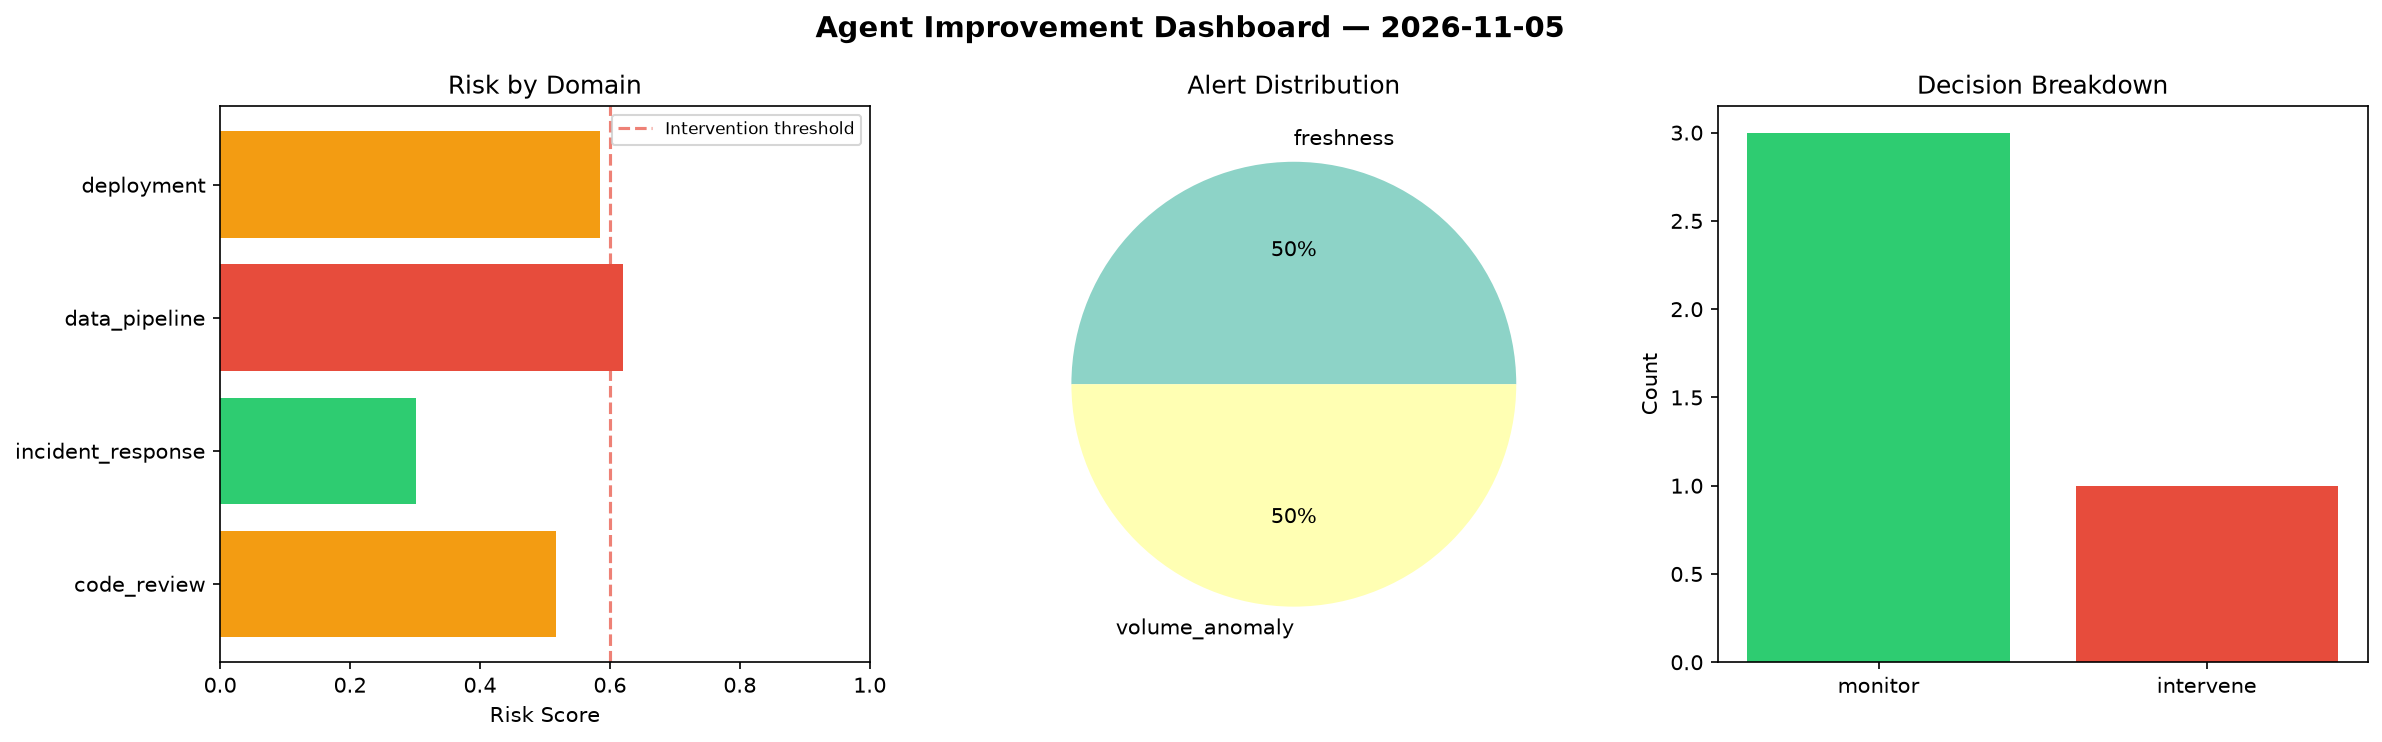
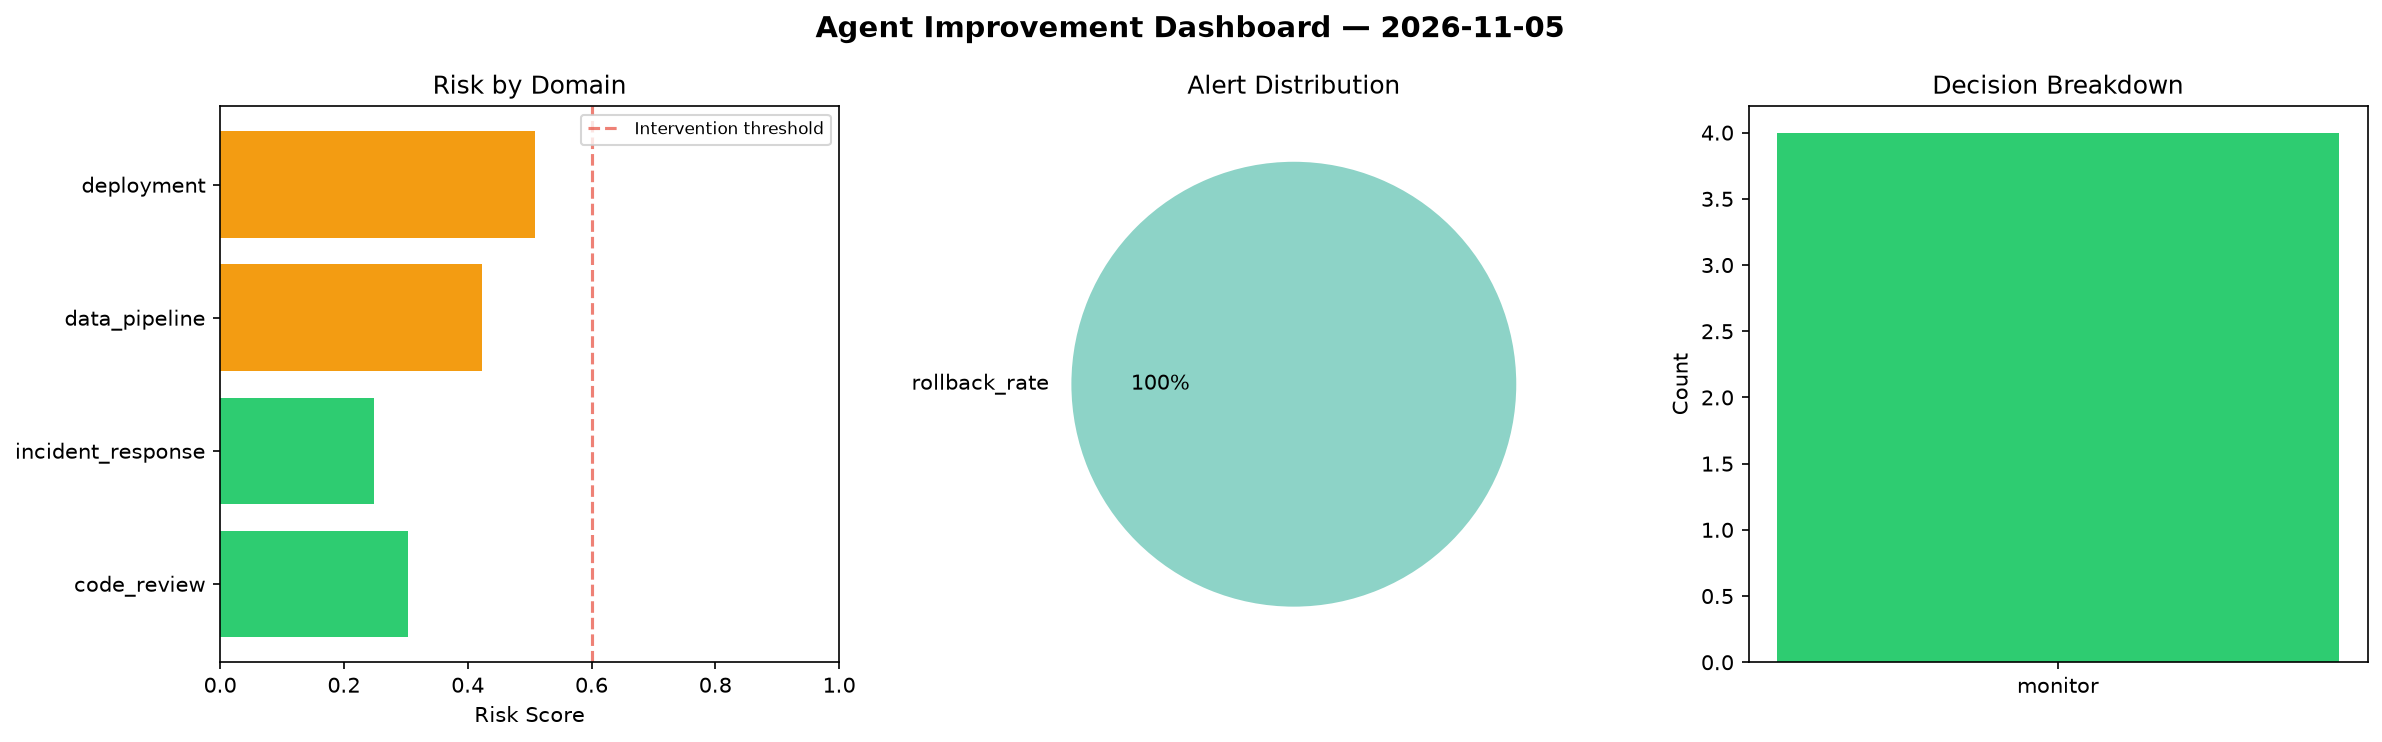
agent-improvement: daily cycle 2026-11-05T09:25

diff --git a/logs/2026-11-05.md b/logs/2026-11-05.md
@@ -1,6 +1,6 @@
 # Agent Improvement Report — 2026-11-05
 
-**Cycle ID:** `860e270b` | **Avg Risk:** 0.5059 | **Interventions:** 1/4
+**Cycle ID:** `8f5415cc` | **Avg Risk:** 0.3715 | **Interventions:** 0/4
 
 ![Dashboard](2026-11-05_dashboard.png)
 
@@ -10,18 +10,18 @@
 
 | Domain | Risk Score | Decision | Alerts |
 |--------|-----------|----------|--------|
-| code_review | 0.5173 | monitor | none |
-| incident_response | 0.3013 | monitor | none |
-| data_pipeline | 0.62 | intervene | freshness, volume_anomaly |
-| deployment | 0.585 | monitor | none |
+| code_review | 0.304 | monitor | none |
+| incident_response | 0.2491 | monitor | none |
+| data_pipeline | 0.4236 | monitor | none |
+| deployment | 0.5093 | monitor | rollback_rate |
 
 ## Delta vs Yesterday
 
 | Domain | Today | Yesterday | Change |
 |--------|-------|-----------|--------|
-| code_review | 0.5173 | 0.3962 | 📈 30.6% |
-| incident_response | 0.3013 | 0.5492 | 📉 -45.1% |
-| data_pipeline | 0.62 | 0.4948 | 📈 25.3% |
-| deployment | 0.585 | 0.3001 | 📈 94.9% |
+| code_review | 0.304 | 0.3962 | 📉 -23.3% |
+| incident_response | 0.2491 | 0.5492 | 📉 -54.6% |
+| data_pipeline | 0.4236 | 0.4948 | 📉 -14.4% |
+| deployment | 0.5093 | 0.3001 | 📈 69.7% |
 
 **Refinement:** `{'adjustment': 'tighten_thresholds', 'trend': 'degrading', 'window': 4}`
